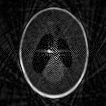
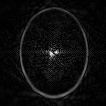
Failed run

diff --git a/scripts/MAP2D_simple.m b/scripts/MAP2D_simple.m
@@ -145,7 +145,7 @@ weights = ones(size(f_image_estimate));
 error_plot(1) = norm(first_estimate_model - P);
 for q=1:no_of_iterations
     % The maximum error in angles for this iteration.
-    max_angle_err = max_angle_err - 0.5;
+    max_angle_err = min(1, max_angle_err - 0.5);
     
     % Initialize parameters needed for searching in the space.
     prior_parameters = PriorParameters(max_angle_err, max_shift_err,...
